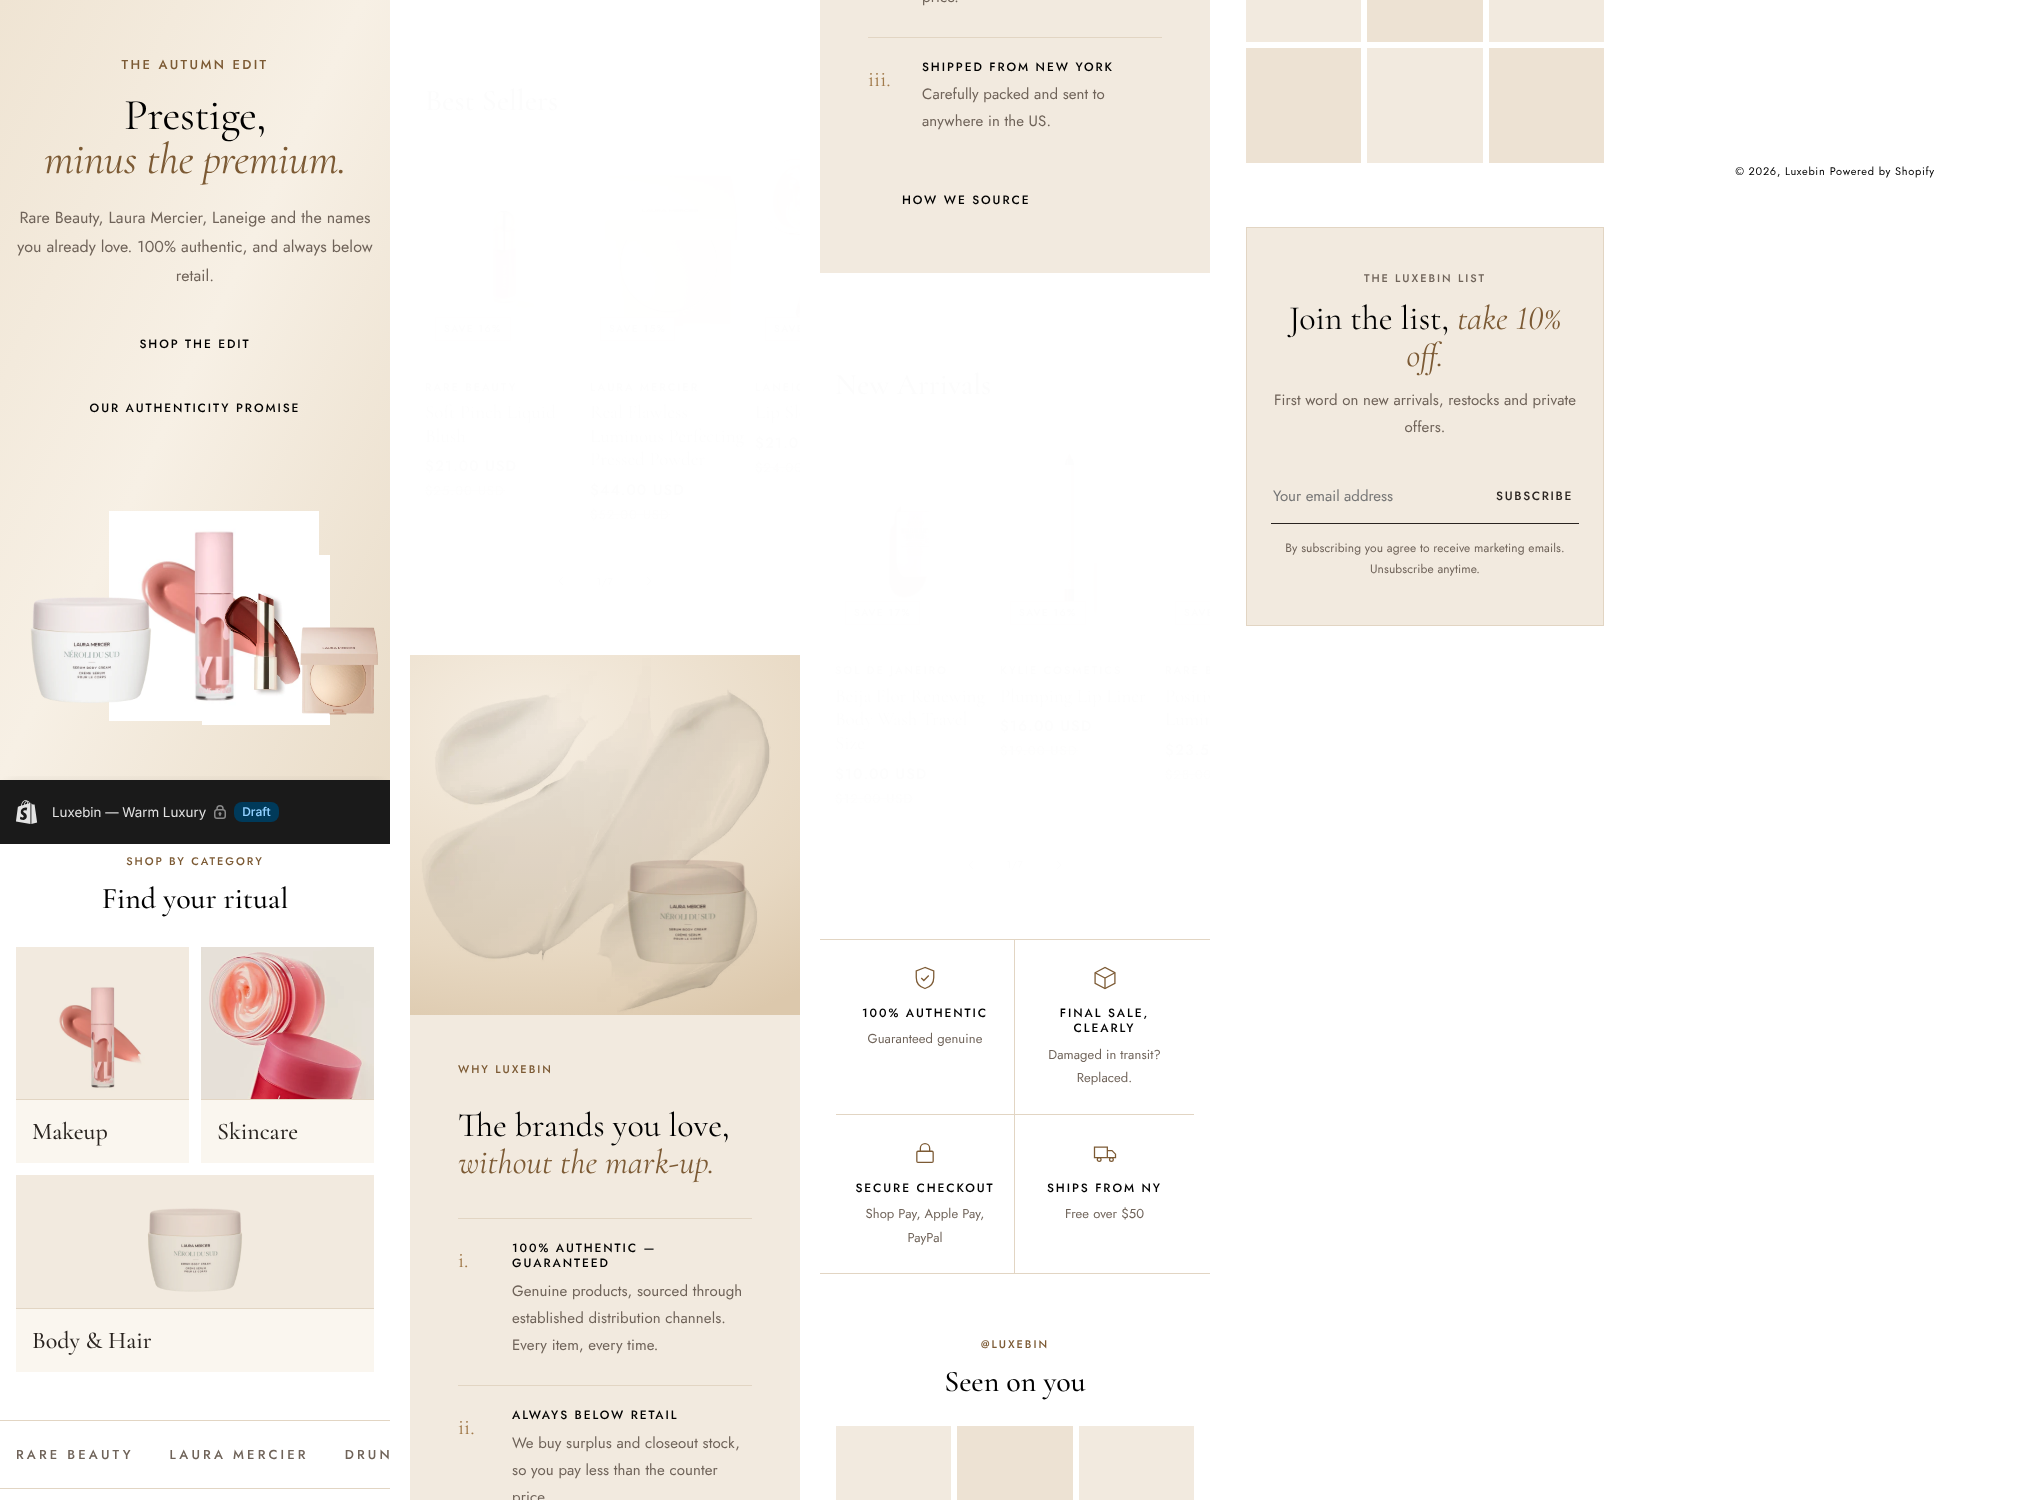
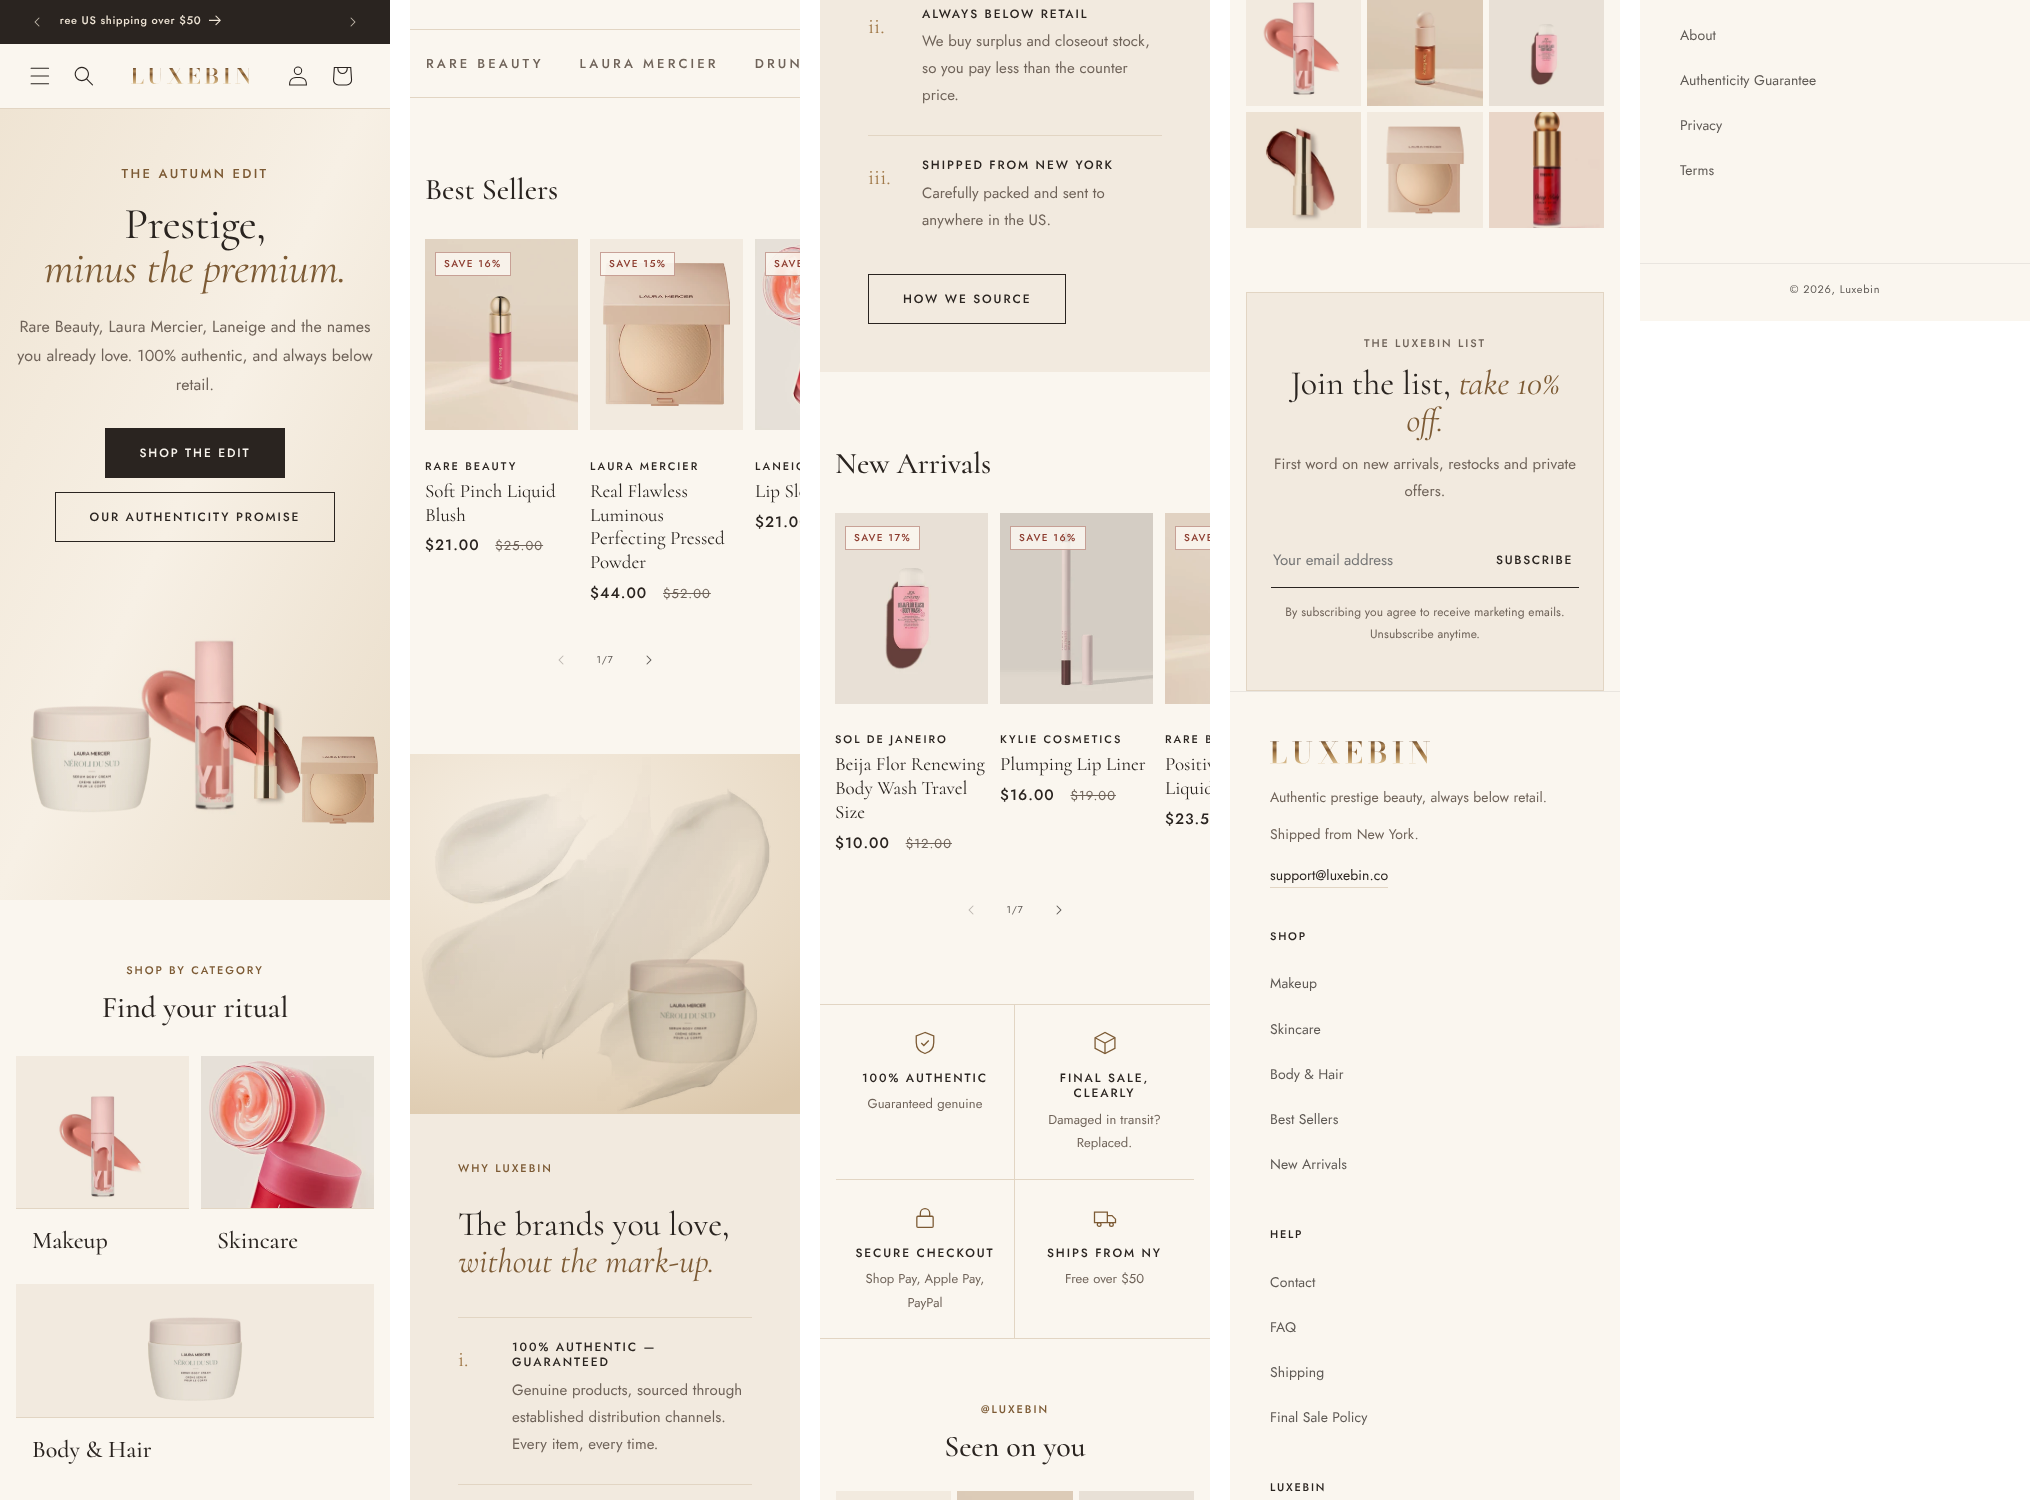
Walkthrough screenshots, checklist status
Claude-Session: https://claude.ai/code/session_01PCHaAAVAMUUwBNHUfsY5J2

diff --git a/launch-checklist.md b/launch-checklist.md
@@ -16,15 +16,15 @@ Status key: [x] done and verified · [~] done, needs a check from you · [ ] not
 - [x] No empty collections
 - [x] Menus: luxebin-main (mega menu), footer Shop / Help / Luxebin
 
-## Theme ("Luxebin — Warm Luxury", unpublished, built on Dawn 16.0.0)
+## Theme ("Luxebin — Warm Luxury v2", unpublished, built on Dawn 16.0.0)
 - [x] Direction B tokens, Cormorant Garamond + Jost, metallic wordmark
 - [x] Homepage sections in brief order
 - [x] Product page: brand link, title, price with retail struck through and Save X%, shade pills, accordions, authenticity badge, sticky add-to-bag on mobile, You may also like
 - [x] Cart drawer with final-sale note
 - [x] Theme check: 0 errors
-- [ ] Walkthrough screenshots (blocked: storefront password needed)
-- [ ] Lighthouse mobile/desktop scores (blocked: storefront password needed)
-- [ ] Publish theme (only on your go-ahead)
+- [x] Walkthrough screenshots in screens/: homepage desktop + mobile, Makeup collection desktop + mobile, 10 product pages, product page mobile, Authenticity page, 404. No Liquid errors, no sideways scroll at 390px, cream background and header on every page
+- [ ] Lighthouse mobile/desktop scores: run once the password page is off (the password page blocks automated testing). Fonts now load from Shopify's own CDN, nothing render-blocking from apps on the homepage
+- [ ] Publish theme v2 (on your go-ahead). Old themes "Dawn 16 import" and "Luxebin v1" can be deleted
 
 ## Pages and policies
 - [x] Pages: About, Authenticity Guarantee, FAQ, Contact (existing)
@@ -44,8 +44,11 @@ Status key: [x] done and verified · [~] done, needs a check from you · [ ] not
 
 ## Apps and marketing
 - [x] Discount WELCOME10: 10% off, once per customer, combines with free shipping
-- [ ] Install Klaviyo, Judge.me, Shopify Inbox, Search & Discovery (all free tiers)
-- [ ] Klaviyo: popup (fires once per visitor), welcome flow with 10% code, abandoned cart x2, post-purchase review request
+- [x] Klaviyo, Judge.me, Shopify Inbox, Search & Discovery installed
+- [x] Judge.me star badge and review widget placed on product pages; star ratings switched on for product cards
+- [ ] Theme editor → App embeds: turn on Judge.me Core, Klaviyo Onsite, Shopify Inbox (content/klaviyo/klaviyo-setup.md §5)
+- [ ] Search & Discovery filters: Brand, Product type, Price, Availability (§6)
+- [~] Klaviyo popup and flows: full copy and settings ready in content/klaviyo/klaviyo-setup.md; I'll build them as soon as the Klaviyo connector is authorised (claude.ai connector settings), or paste them in yourself
 - [ ] Popup tested, code tested
 
 ## Final QA
